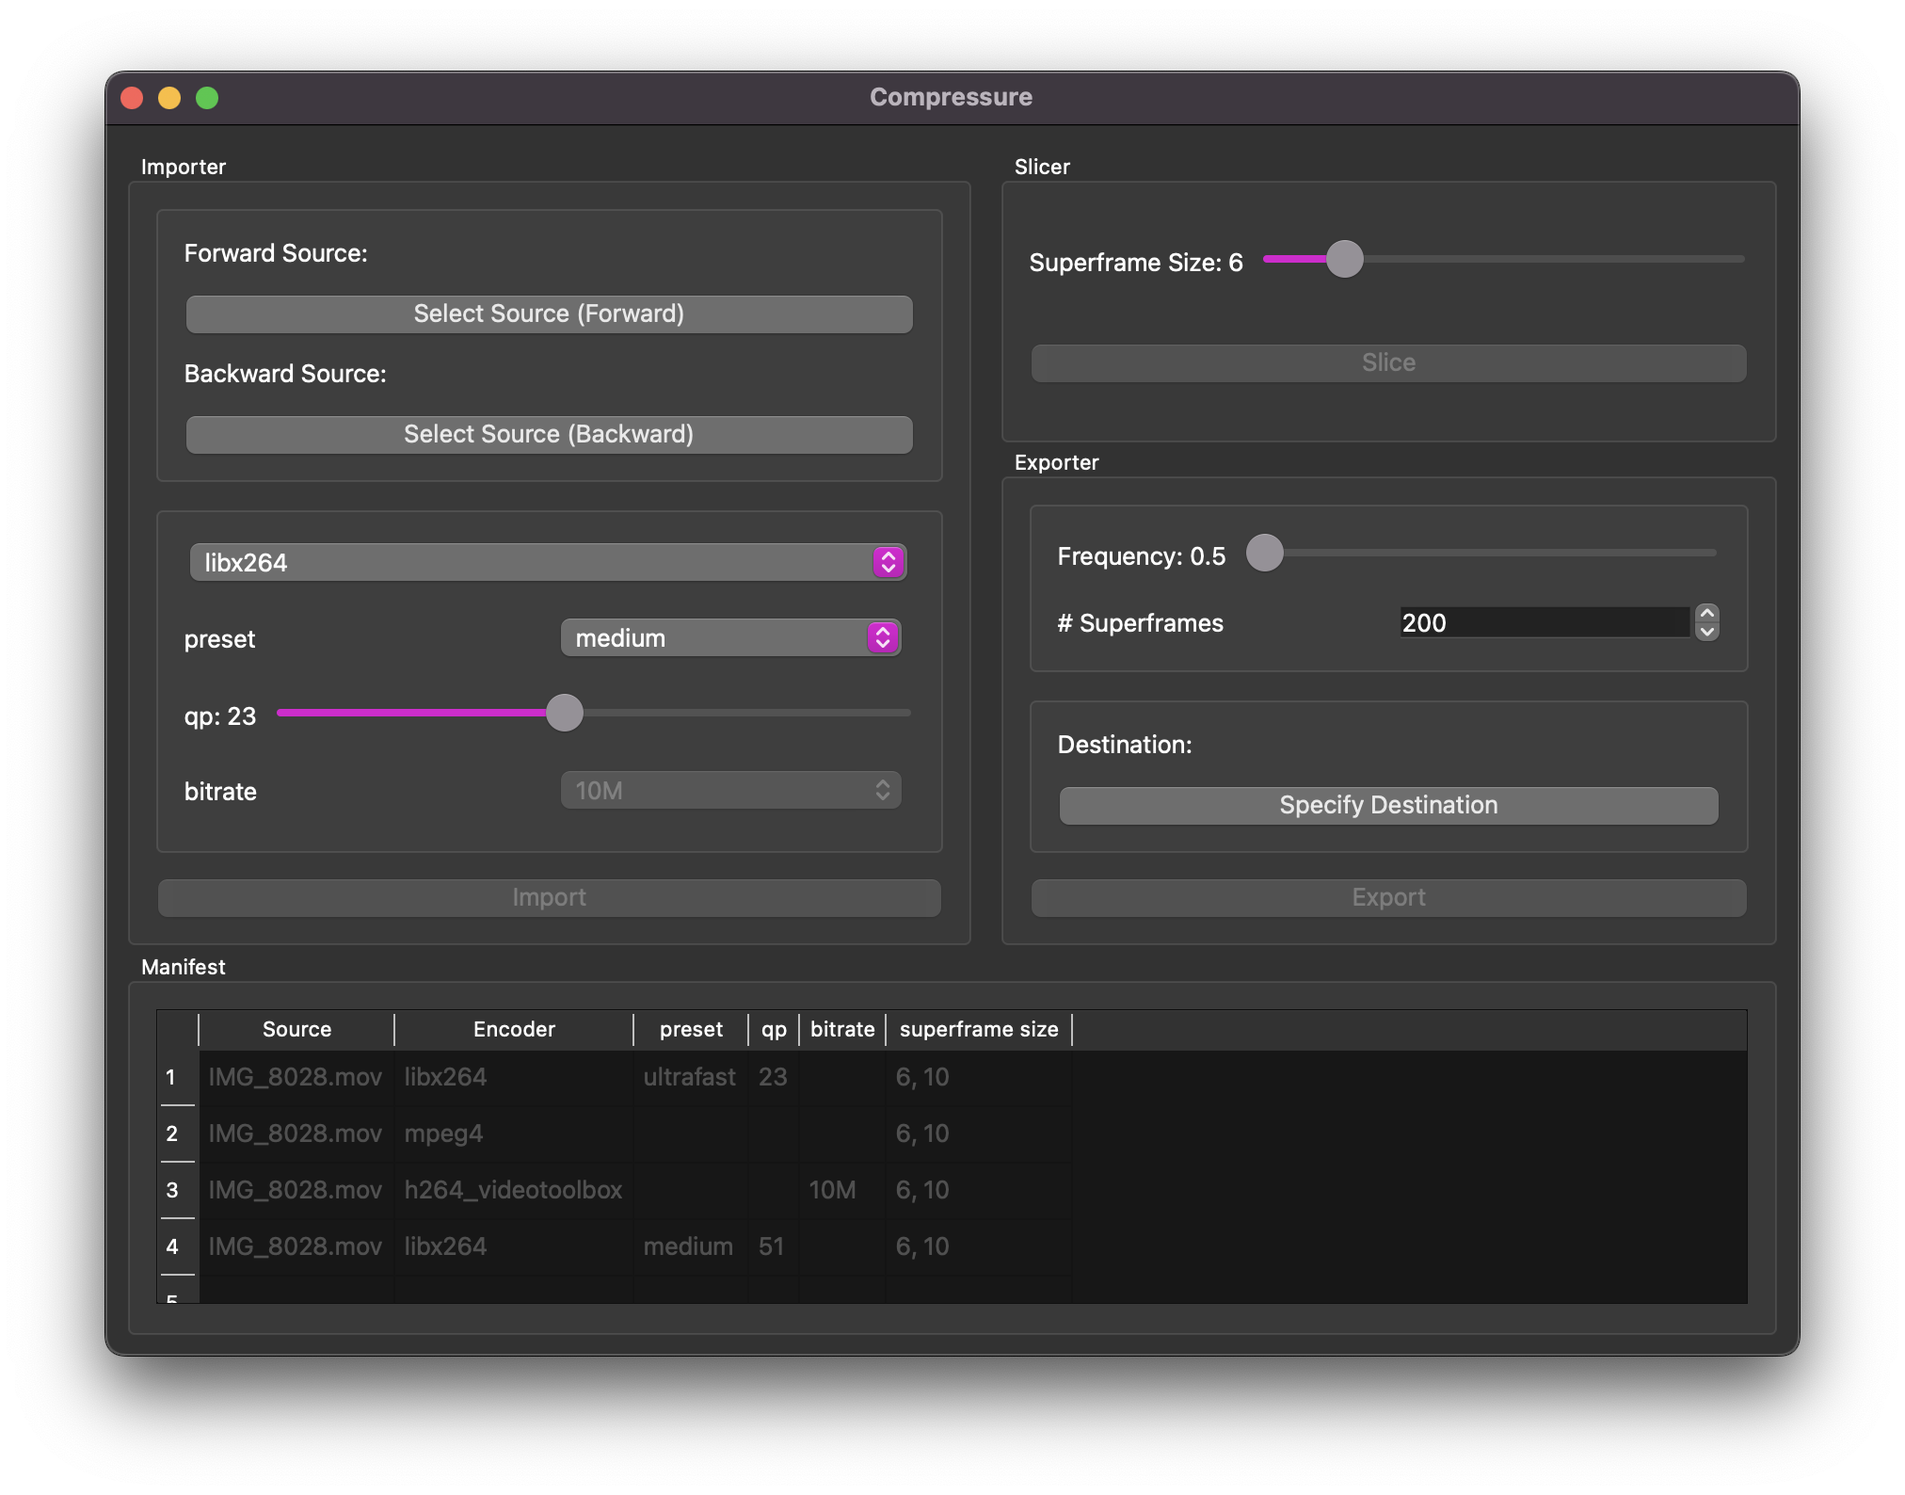
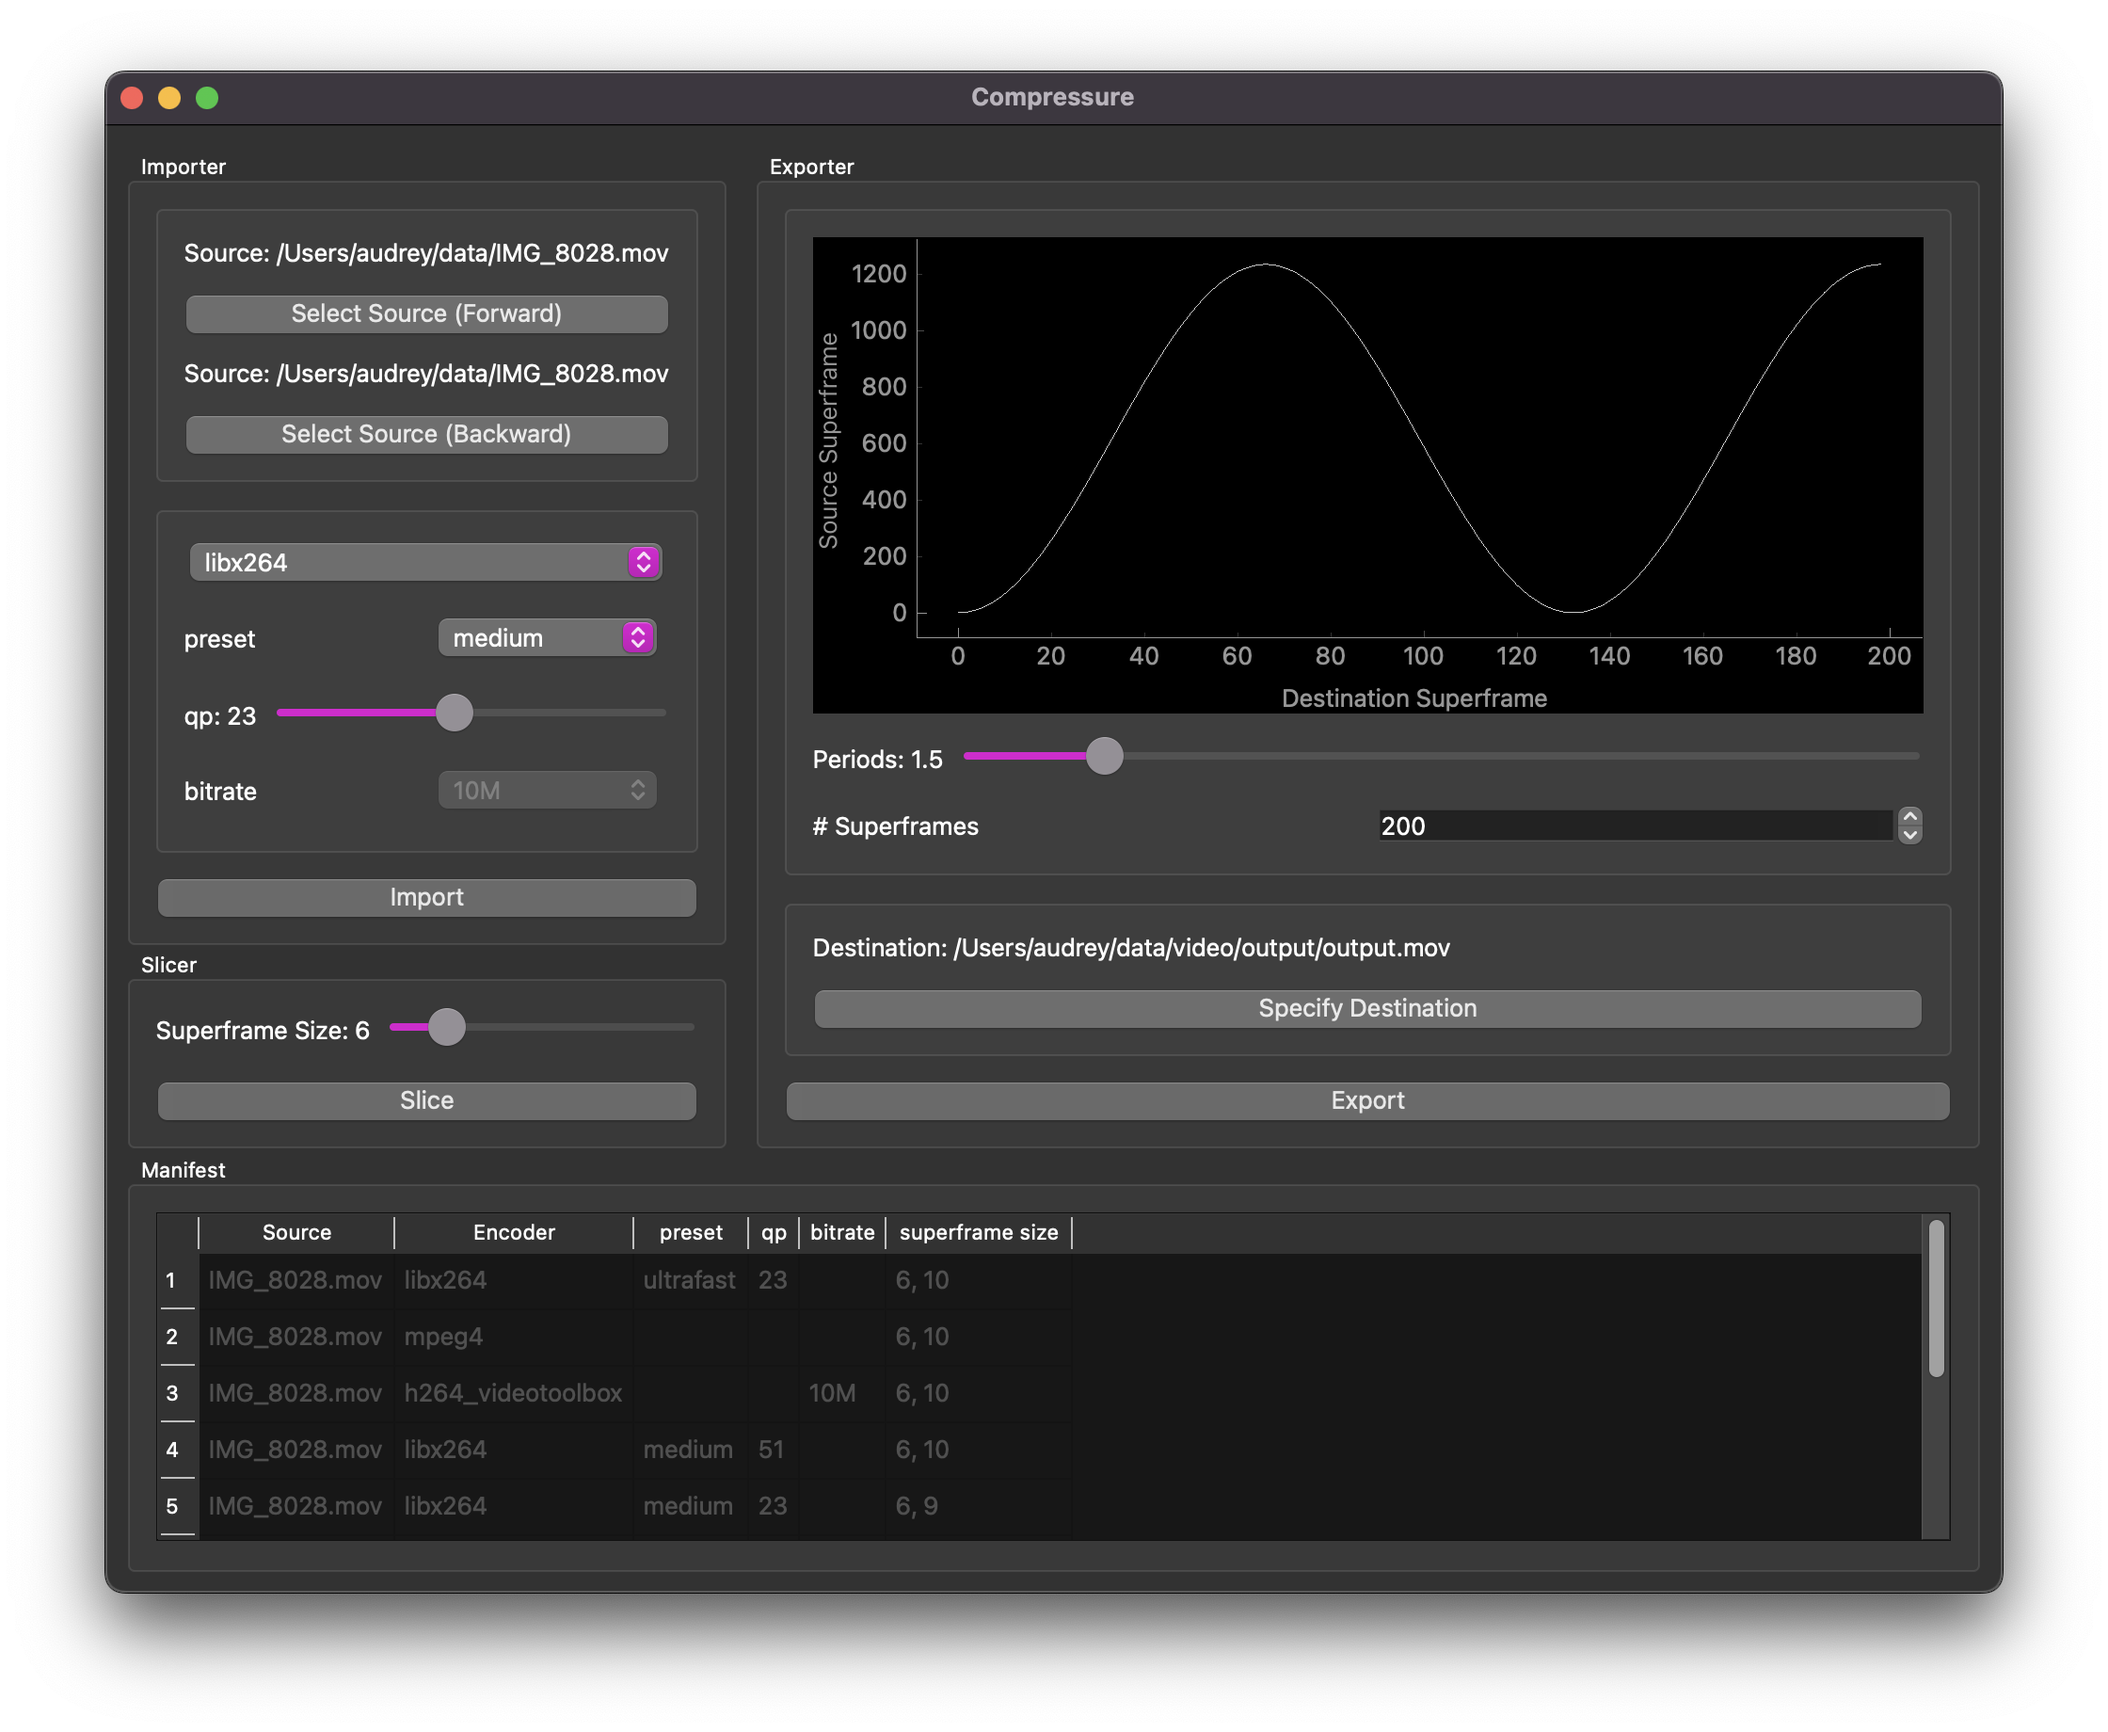
update timeline with changes; new GUI image

diff --git a/compressure/ui.py b/compressure/ui.py
@@ -7,7 +7,9 @@ from typing import (
 )
 
 from PyQt6.QtCore import Qt
-from PyQt6.QtGui import QIcon
+from PyQt6.QtGui import (
+    QIcon,
+)
 from PyQt6.QtWidgets import (
     QApplication,
     QComboBox,
@@ -63,7 +65,7 @@ class MainWindow(QMainWindow):
         self.setWindowTitle(APP_NAME)
 
         self.layout = QVBoxLayout()
-        self.layout_tools = QHBoxLayout()
+        self.layout_interactive = QHBoxLayout()
 
         args = parse_args(ignore_requirements=True)
         self.controller = CompressureSystem(
@@ -97,20 +99,22 @@ class MainWindow(QMainWindow):
         self.slicer.fpath_encode_b = self.importer.fpath_encode_b
         self.exporter.dpath_slices_f = self.slicer.dpath_slices_f
         self.exporter.dpath_slices_b = self.slicer.dpath_slices_b
+        self.exporter.subsection_compose.dpath_slices_f = self.slicer.dpath_slices_f
+        self.exporter.subsection_compose.dpath_slices_b = self.slicer.dpath_slices_b
         self.exporter.superframe_size = self.slicer.slider_superframe_size.value
 
-        layout_primary = QHBoxLayout()
-        layout_primary.addWidget(self.importer.group_box)
+        layout_left = QVBoxLayout()
+        layout_left.addWidget(self.importer.group_box)
+        layout_left.addWidget(self.slicer.group_box)
 
-        layout_secondary = QVBoxLayout()
-        layout_secondary.addWidget(self.slicer.group_box)
-        layout_secondary.addWidget(self.exporter.group_box)
+        layout_right = QVBoxLayout()
+        layout_right.addWidget(self.exporter.group_box)
 
-        #self.layout_tools.addLayout(layout_manifest)
-        self.layout_tools.addLayout(layout_primary)
-        self.layout_tools.addLayout(layout_secondary)
+        #self.layout_interactive.addLayout(layout_manifest)
+        self.layout_interactive.addLayout(layout_left)
+        self.layout_interactive.addLayout(layout_right)
 
-        self.layout.addLayout(self.layout_tools)
+        self.layout.addLayout(self.layout_interactive)
         self.layout.addWidget(self.manifest.group_box)
         self.manifest.group_box.setMinimumWidth(300)
 
@@ -511,7 +515,7 @@ class ExporterMenu(GenericSection):
         # self.subsection_destination.on_change = self.on_change
 
         self.subsection_compose = ComposerSubsection(
-            on_change=self.update_timeline,
+            on_change=self.update_all,
         )
         # self.subsection_compose.on_change = self.on_change
         self._timeline = []
@@ -554,7 +558,6 @@ class ExporterMenu(GenericSection):
         print(self.fpath_out())
 
     def update_timeline(self):
-        print("calling update_timeline")
         self._buffer = self.controller.init_buffer(
             self.dpath_slices_f(),
             self.dpath_slices_b(),
@@ -564,12 +567,11 @@ class ExporterMenu(GenericSection):
         self._timeline = generate_timeline_function(
             self.superframe_size(),
             len(self.buffer()),
-            frequency=self.subsection_compose.slider_frequency.value() / 2,
+            frequency=self.subsection_compose.slider_periods.value() / 2,
             n_superframes=self.subsection_compose.spinbox_superframes.value() - 1,
             scaled=True,
             rectified=False
         )
-        print(self.timeline())
 
     def buffer(self):
         return self._buffer
@@ -634,21 +636,21 @@ class ComposerSubsection(GenericSection):
         self._finalize_layout()
 
     def _init_layout(self):
-        layout_frequency = QHBoxLayout()
+        layout_periods = QHBoxLayout()
         layout_superframes = QHBoxLayout()
 
-        self.label_frequency = QLabel()
-        self.slider_frequency = QSlider(Qt.Orientation.Horizontal)
-        self.slider_frequency.valueChanged.connect(self.update_label_frequency)
+        self.label_periods = QLabel()
+        self.slider_periods = QSlider(Qt.Orientation.Horizontal)
+        self.slider_periods.valueChanged.connect(self.update_label_periods)
 
-        self.slider_frequency.setMinimum(1)
-        self.slider_frequency.setMaximum(16)
-        self.slider_frequency.setSingleStep(1)
-        self.slider_frequency.setValue(1)
-        self.update_label_frequency(1, no_change=True)
+        self.slider_periods.setMinimum(1)
+        self.slider_periods.setMaximum(16)
+        self.slider_periods.setSingleStep(1)
+        self.slider_periods.setValue(1)
+        self.update_label_periods(1)
 
-        layout_frequency.addWidget(self.label_frequency)
-        layout_frequency.addWidget(self.slider_frequency)
+        layout_periods.addWidget(self.label_periods)
+        layout_periods.addWidget(self.slider_periods)
 
         self.label_superframes = QLabel("# Superframes")
         self.spinbox_superframes = QSpinBox()
@@ -662,22 +664,22 @@ class ComposerSubsection(GenericSection):
         layout_superframes.addWidget(self.spinbox_superframes)
 
         self.graphWidget = pyqtgraph.PlotWidget()
+        self.graphWidget.setLabel('bottom', "Destination Superframe")
+        self.graphWidget.setLabel('left', "Source Superframe")
         self.pen = self.graphWidget.plot()
         self.pen.setPen((200, 200, 100))
 
         self.layout.addWidget(self.graphWidget)
-        self.layout.addLayout(layout_frequency)
+        self.layout.addLayout(layout_periods)
         self.layout.addLayout(layout_superframes)
 
-    def update_label_frequency(self, value, no_change=False):
-        self.label_frequency.setText(f'Frequency: {value/2:.1f}')
+    def update_label_periods(self, value):
+        self.label_periods.setText(f'Periods: {value/2:.1f}')
         if self.dpath_slices_f is not None:
             self.on_change()
 
     def update_graph(self):
-        print("updating graph")
-        print(self.timeline())
-        self.graphWidget.plot(self.timeline())
+        self.graphWidget.plot(self.timeline(), clear=True)
 
 
 class ManifestSection(GenericSection):
@@ -712,7 +714,15 @@ class ManifestSection(GenericSection):
 
         self.update_table()
 
+        self.table.setMinimumHeight(175)
+        #verticalSpacer = QSpacerItem(
+        #    20,
+        #    40,
+        #    #QSizePolicy.Minimum,
+        #    #QSizePolicy.Expanding
+        #)
         self.layout.addWidget(self.table)
+        #self.layout.addItem(verticalSpacer)
         return
 
     def _add_encode(self, fname_source: str, fname_encode: str, row: int):
